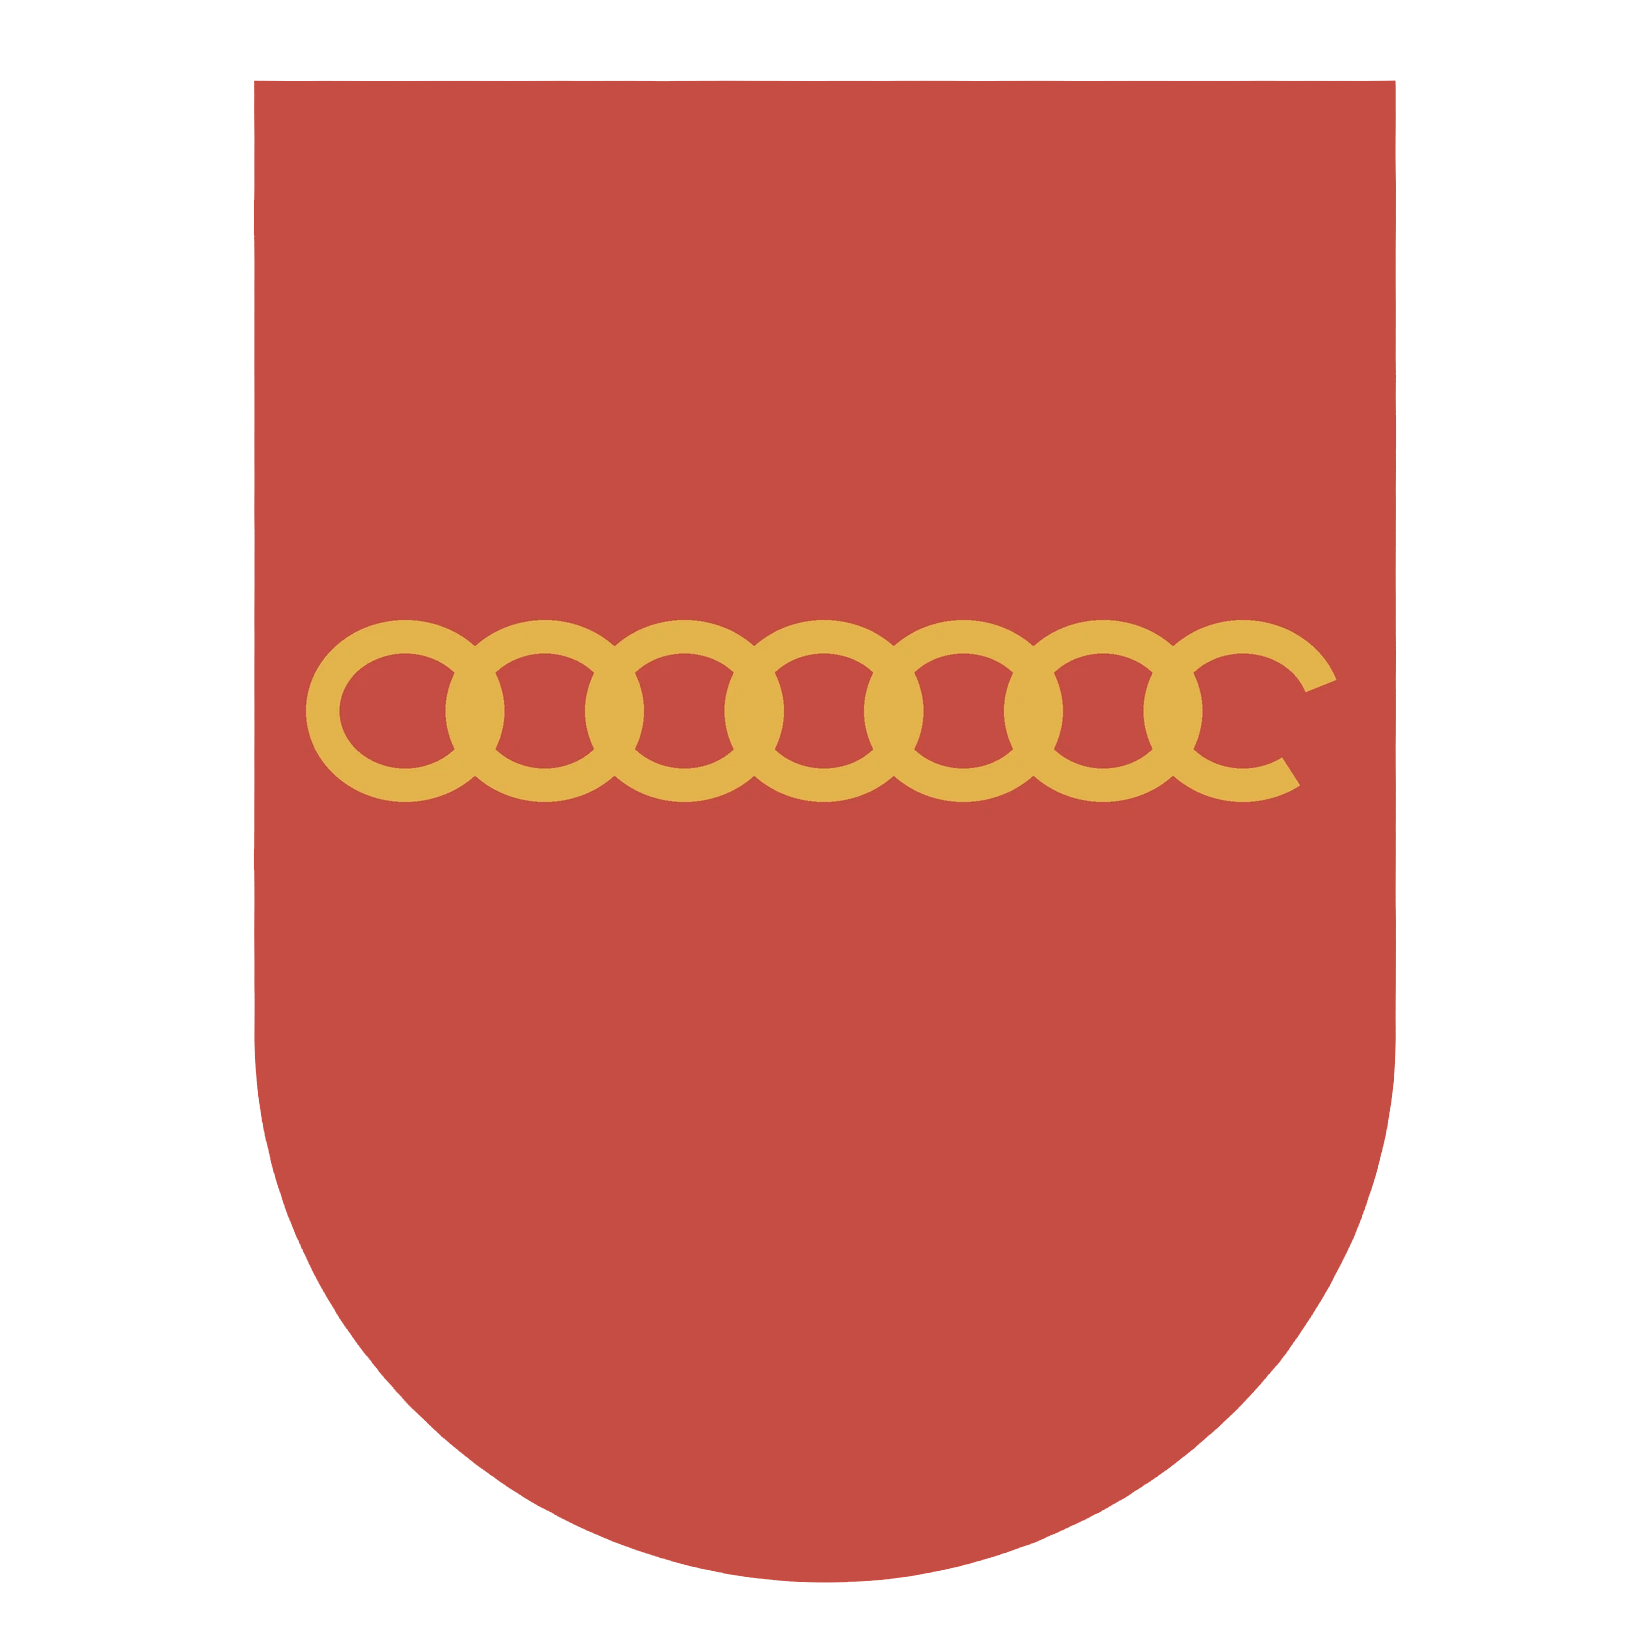
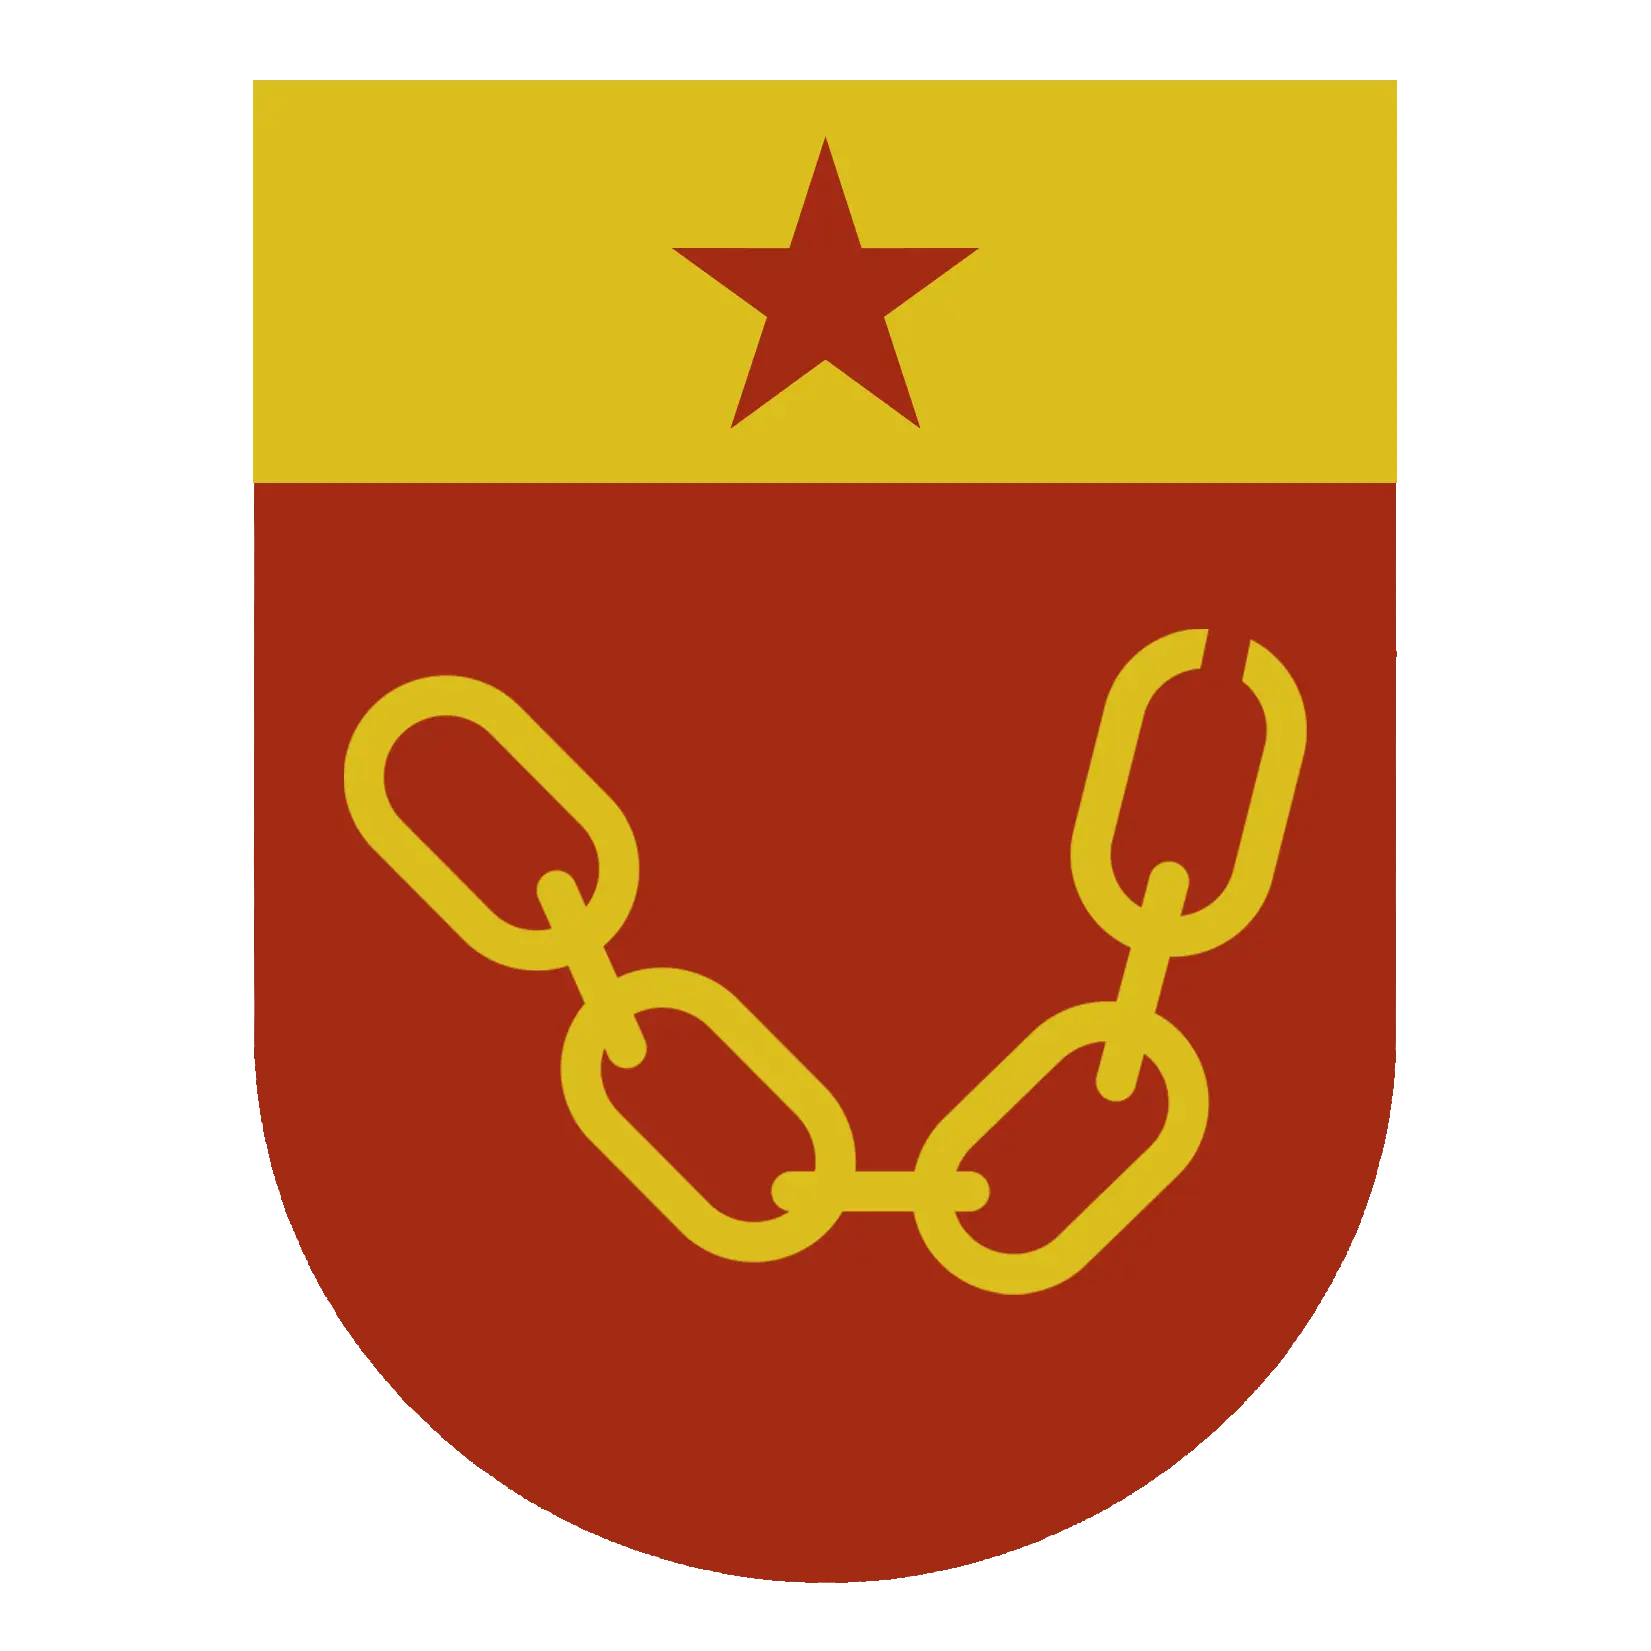
Refresh content from the vault
The three countries' arms as drawn, Buralia's rewritten blazon, and mottos
for the four polities.

Claude-Session: https://claude.ai/code/session_01JN3DQZPP24axs6NSUTi8Fm

diff --git a/content/atlas/Buralia.md b/content/atlas/Buralia.md
@@ -55,10 +55,23 @@ What nobody in the imperial administration knows is the labour: that the works i
 
 ## Heraldry
 
-<figure> <img src="Buralia Arms.webp" width="200" class="center"> <figcaption>A red field, a gold chain, and one link left open.</figcaption> </figure>
+<figure> <img src="Buralia Arms.webp" width="200" class="center"> <figcaption>A gold band across the top carrying one red star, and below it a gold chain of seven links hung with the last one broken.</figcaption> </figure>
 
-*Gules, a chain of seven links Or, the seventh unclosed*
+*Gules, on a chief Or a mullet gules, in base a chain of seven links Or hung as a swag, the seventh broken*
 
-The red is the ash country, which is the only part of Buralia this region ever sees. The chain is what the empire is on its frontier, and the empire has never pretended otherwise. The open seventh link is the **Clearing**: six years closed and the seventh struck off, and Buralia regards that open link as the whole of its moral argument against every neighbour who has ever raised the subject.
+The red is the ash country, which is the only part of Buralia this region ever sees. The chain is what the empire is on its frontier, and the empire has never pretended otherwise. It hangs the way a chain hangs on a man and not the way a chain is laid out for inspection.
 
-On the march the Gardistoy point at it. In [[Altiplano]] nobody thinks about it at all, because in the interior a manumission goes through a magistrate and the chain is a frontier idiom the civil service finds slightly embarrassing.
+It is also a count rather than an ornament. Seven links, six of them closed and the seventh broken: the **jubilee cycle**, which is the archive's word for it and which the archive can date back further than anyone on the frontier would credit. Nobody on the march says jubilee. They say the **Clearing**, they say it in the seventh year, and Buralia regards that broken link as the whole of its moral argument against every neighbour who has ever raised the subject.
+
+The gold band across the top is the high country, which is to say the reason there is an empire at all. Everything below it went into the Unmaking and came out as ash and committees and a trading camp on a sinking isthmus. The band did not.
+
+The star is the emperor. It is drawn in the red of the mesa that [[Altiplano]] is cut out of, which is the same red the ash country is drawn in, and the heralds at the capital have never once agreed to separate the two. One country, one stone. Beyond that the design says what it means to say and nothing else: one charge on the band, no crown, no supporters, and the band above the chain. The march has never needed that last part explained to it.
+
+Set it beside [[Mososi]], where the Imperiestro is one bed among nine and drawn the same size as the other eight. Buralia has never wanted that fiction and does not have the vocabulary to make it.
+
+In Altiplano nobody looks at the chain, because in the interior a manumission goes through a magistrate and everything below the band is a frontier idiom the civil service finds slightly embarrassing. What a civil servant will tell you about, at length and without being asked, is the band.
+
+**Motto:** *The record stands.*
+
+Four words in the old spelling, cut over the archive doors at [[Altiplano]] and set at the head of every writ the empire issues. In the heartland it is procedure and means precisely what it says: a dispute is settled by looking it up, and the book does not change because you have arrived with an opinion. On the march it is heard as a threat, and the Gardistoy have never corrected the impression. Neither reading takes account of the corollary, which is that the empire knows what somebody wrote down and nothing else whatever, and that the [[Spero]] file reads *mission concession, worthless district, paid punctually, in silver*.
+

diff --git a/content/atlas/Nysis.md b/content/atlas/Nysis.md
@@ -89,3 +89,8 @@ Nobody in Nysis knows this. If the order's revenue falls, the lease payment fall
 The green is the timber country the money used to come from. The rings are the urbestroy: equal, unjoined, and arranged around an empty middle, which is an accurate constitutional diagram and was adopted as a compromise rather than as a statement. A device with anything at the centre would have meant somebody was at the centre, and no proposal of that kind has ever survived a chevayo.
 
 It is flown on hulls and at the border posts, because ships must fly something and a customs house must hang something. At home nobody flies it. At home you fly your own town.
+
+**Motto:** *What we agree, we agree.*
+
+The chevayo that adopted the arms considered four mottoes and carried this one. The three that failed all contained a verb somebody could later be held to. It went onto the customs boards and the stern boards along with the rings, and a Freeport clerk reading it at the head of a tariff schedule will tell you it means the confederation honours its contracts. It means the confederation honours the contracts it has already honoured. Nysisians find this funny and have never explained it, because the misunderstanding has been worth money for two hundred years.
+

diff --git a/content/atlas/Mososi.md b/content/atlas/Mososi.md
@@ -68,3 +68,8 @@ The green is the terraces. The gold between them is neither decoration nor the c
 Three by three is the smallest grid that has a middle. The middle bed is [[Typpe]], marked with the leaf it sells, and it is drawn the same size as the other eight. That is the claim the empire makes about itself: the Imperiestro is a bed in the grid rather than a crown above it. It is also, as the succession will eventually demonstrate, a polite fiction.
 
 Its character is that it is more often stamped than flown. It appears on gate-boards, on the weights, and at the foot of sealed documents; the cloth version is for the palace at [[Typpe]] and the frontier posts. An empire of inspectors marks things rather than parading them.
+
+**Motto:** *Akvo lauvice.* Water in its turn.
+
+Cut into the sluice gates, stamped on the brass weights, set at the head of every allocation schedule the inspectorate issues. To a farmer on the eighth step it is a promise, and it is kept: his water comes. To anyone who has watched a run scheduled two weeks late in a dry year it is also a complete account of how this country is governed, which is that nothing here is ever refused. It is sequenced.
+

diff --git a/content/backstory/Freeport Gazetteer.md b/content/backstory/Freeport Gazetteer.md
@@ -87,6 +87,11 @@ A tidal basin (some 310 ft in diameter) sits near the south end of town to ensur
 <figure> <img src="./images/Freeport Arms.webp" width="200" class="center"> <figcaption>Azure, a mermaid argent stantant facing sinister</figcaption> </figure>
 
 The field of the shield is azure (light blue), symbolizing loyalty, truth, and the sea. The charge is a mermaid argent (rendered in silver or white), emblematic of Freeport’s maritime heritage, allure, and the city’s elusive, protective spirit.
+
+**Motto:** *Liber Liberum Significat.* Freedom means Free.
+
+It is struck on every coin the Mint issues (see [[Currency and Prices]]) and it is a customs term before it is a philosophy: goods in transit pay nothing, and a man who arrives with money and no history is under the same rule. Freeport did not inherit the Latin. It bought it, along with the mermaid, from a herald who was paid to give a two-hundred-year-old trading camp a pedigree, and every other country in the region knows exactly where it came from.
+
 ## Town Guards
 ```mermaid
 flowchart LR
